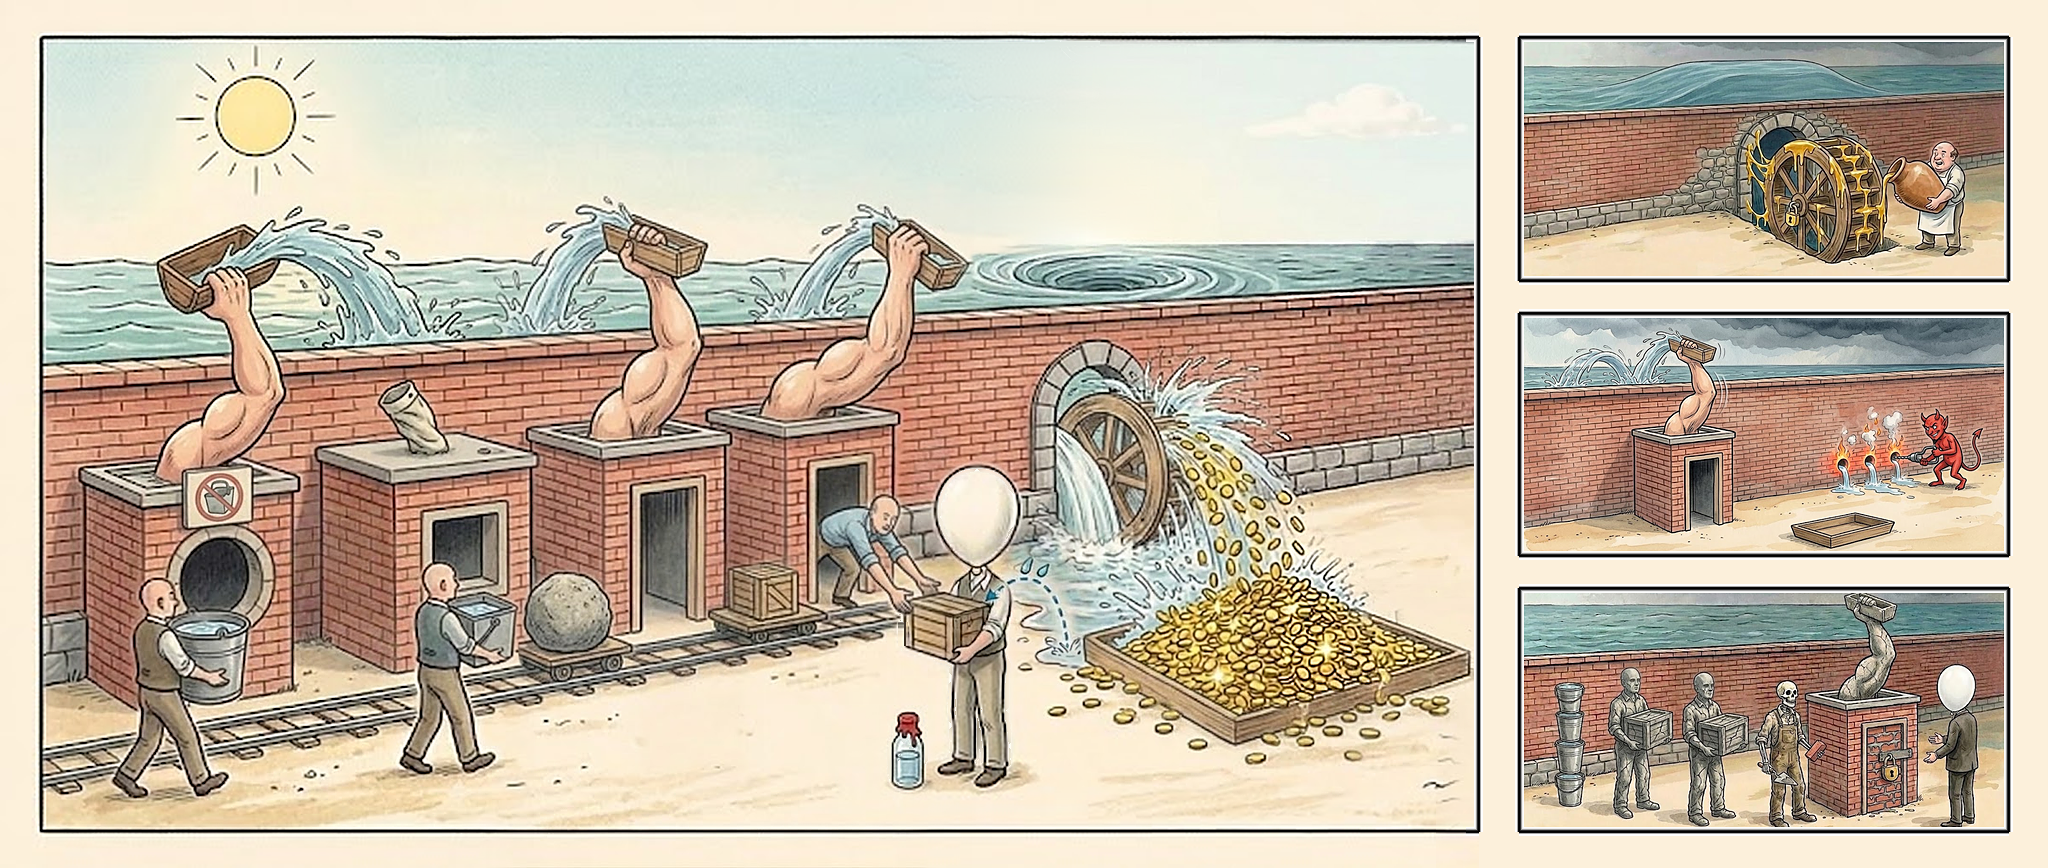
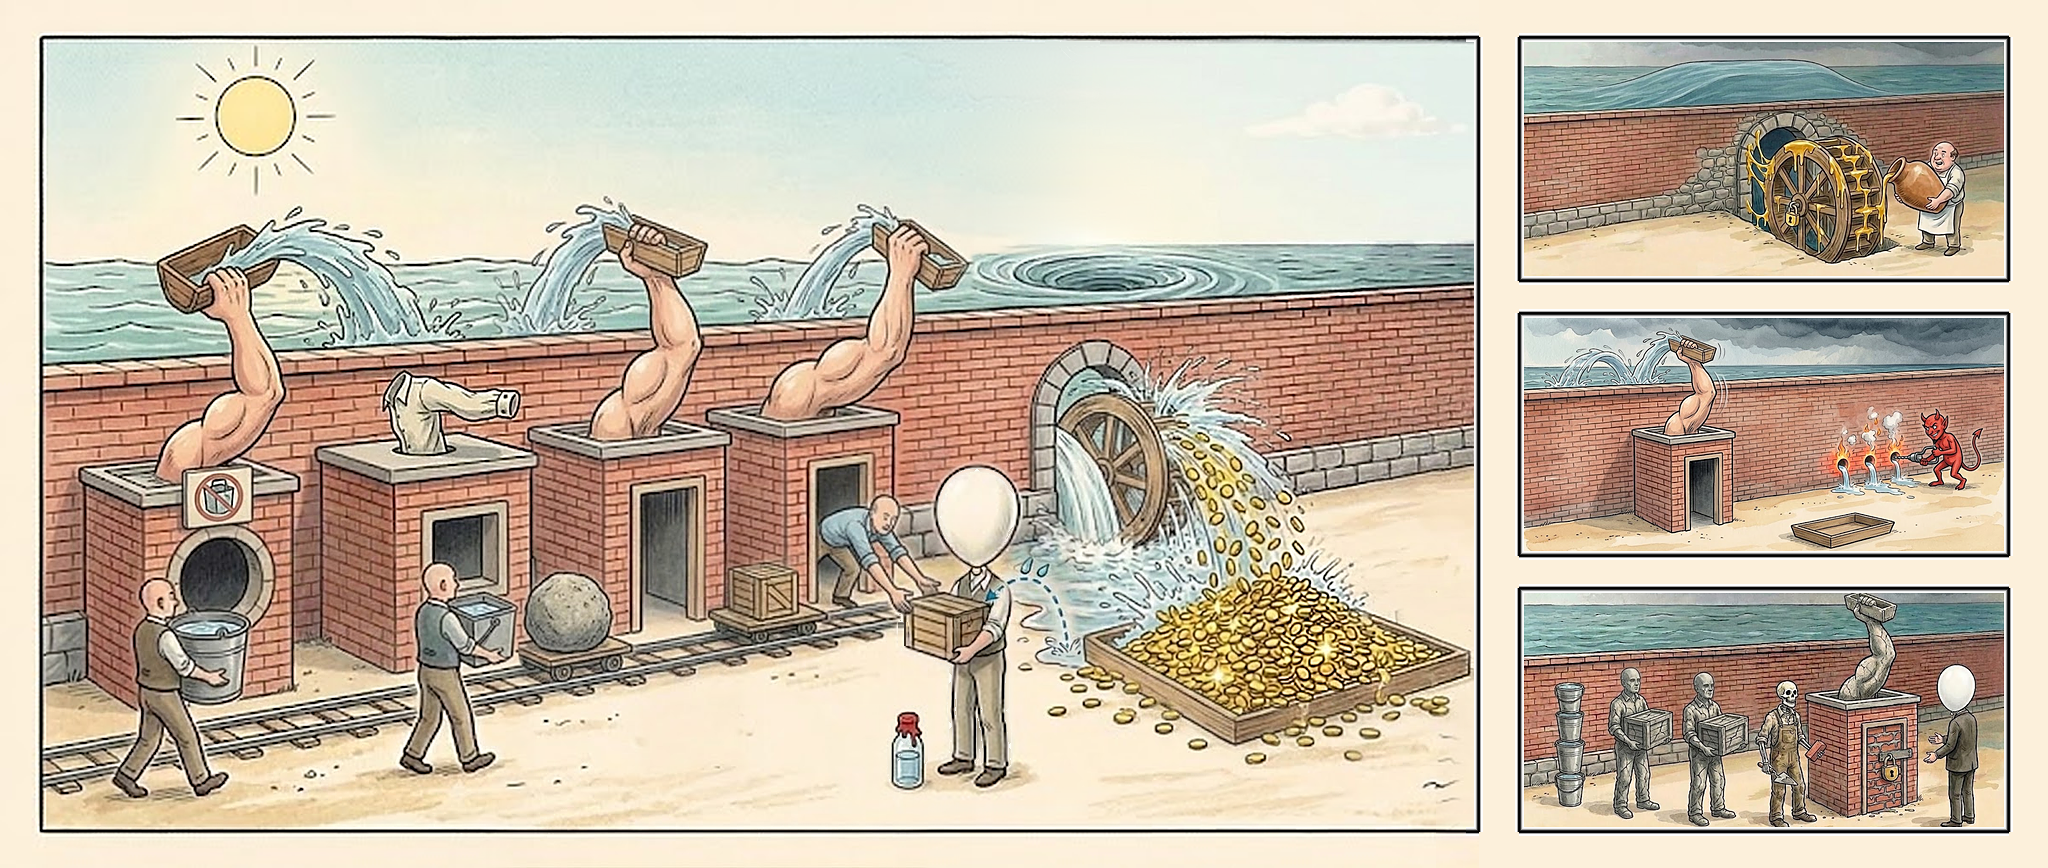
s32u01 v13 — 금지표지 양동이를 각진 네모로 · 둘째 집 지붕의 「양말」을 커프스 달린 빈 셔츠 소매로 (b89 채점자 제안 · Argon)
Claude-Session: https://claude.ai/code/session_01WoYBm6rvmofApXiAiUhif2

Changed region(s): [[0.1875, 0.4044, 0.2812, 0.5599], [0.0938, 0.5288, 0.125, 0.591]]

diff --git a/tools/prompts/u32_설계.md b/tools/prompts/u32_설계.md
@@ -254,3 +254,8 @@
 - cold 에서 둘 다 P: 5(금지표지 양동이 모양) · 6(비단백질) · 21(자물쇠 없음 대비). A 만 13 · 19, B 만 9.
 - 글 고침(바로 함): 약속 #93 판 이름 흘림 지움 · #17 풍선 머리 = O₂ · #116 소용돌이 · #118 해 뜬 맑은 날 = 정상 · 행 15 ★「산소 소비 감소」 사실에서 뺌(나르는 물건 없음 — bx 에 남김).
 - 그림 다듬기(선택 · b90 으로 확인): A9 — 금지표지 속 양동이를 둘째 짐꾼의 네모 양동이와 똑같이 · 둘째 집 지붕의 「양말」을 단추 커프스 달린 빈 셔츠 소매로.
+
+## v13 (2026-10-18 · Argon · A9)
+- 걸어 둔 `__jobP` 가 창이 보이자 자동 전송 → Argon 이 「도구 없음」 글과 함께 그림(572×1024).
+- 바뀐 자리 셋 중 둘만 씀: ① 둘째 집 지붕의 「양말」 → **단추 채운 커프스가 보이는 빈 셔츠**(소매가 옆으로 펄럭 · 안에 팔 없음) own 183,180,266,236 ② 금지표지 속 양동이 → **곧은 옆면 · 네모 입구의 각진 양동이**(둘째 짐꾼 것과 같은 꼴) own 95,232,120,256. 셋째(둘째 짐꾼 다리 언저리 작은 변화)는 버림.
+- 언샤프는 그 두 자리에만. 글은 그대로(행 3 「빈 셔츠 소매」 · 행 5 「네모 양동이에 빨간 금지 표시」가 그대로 맞다).
